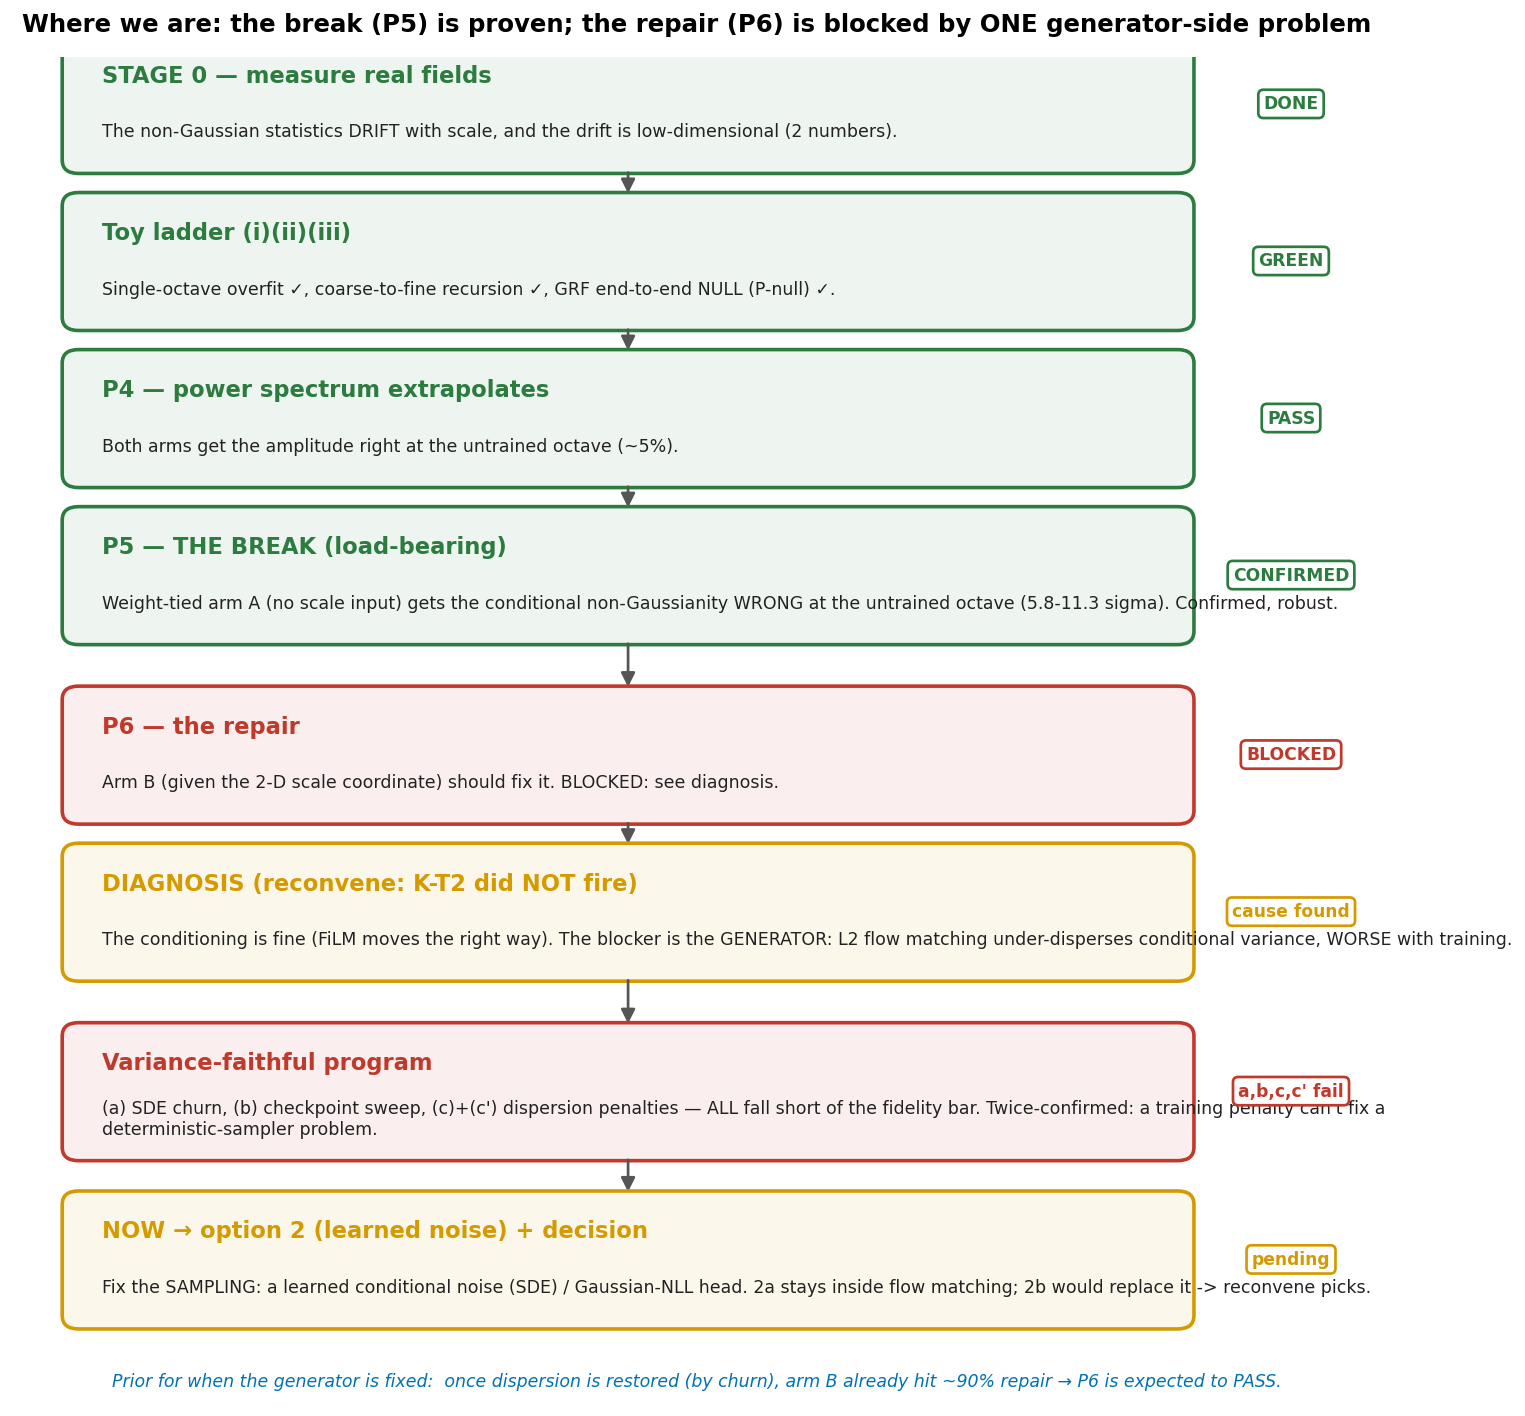
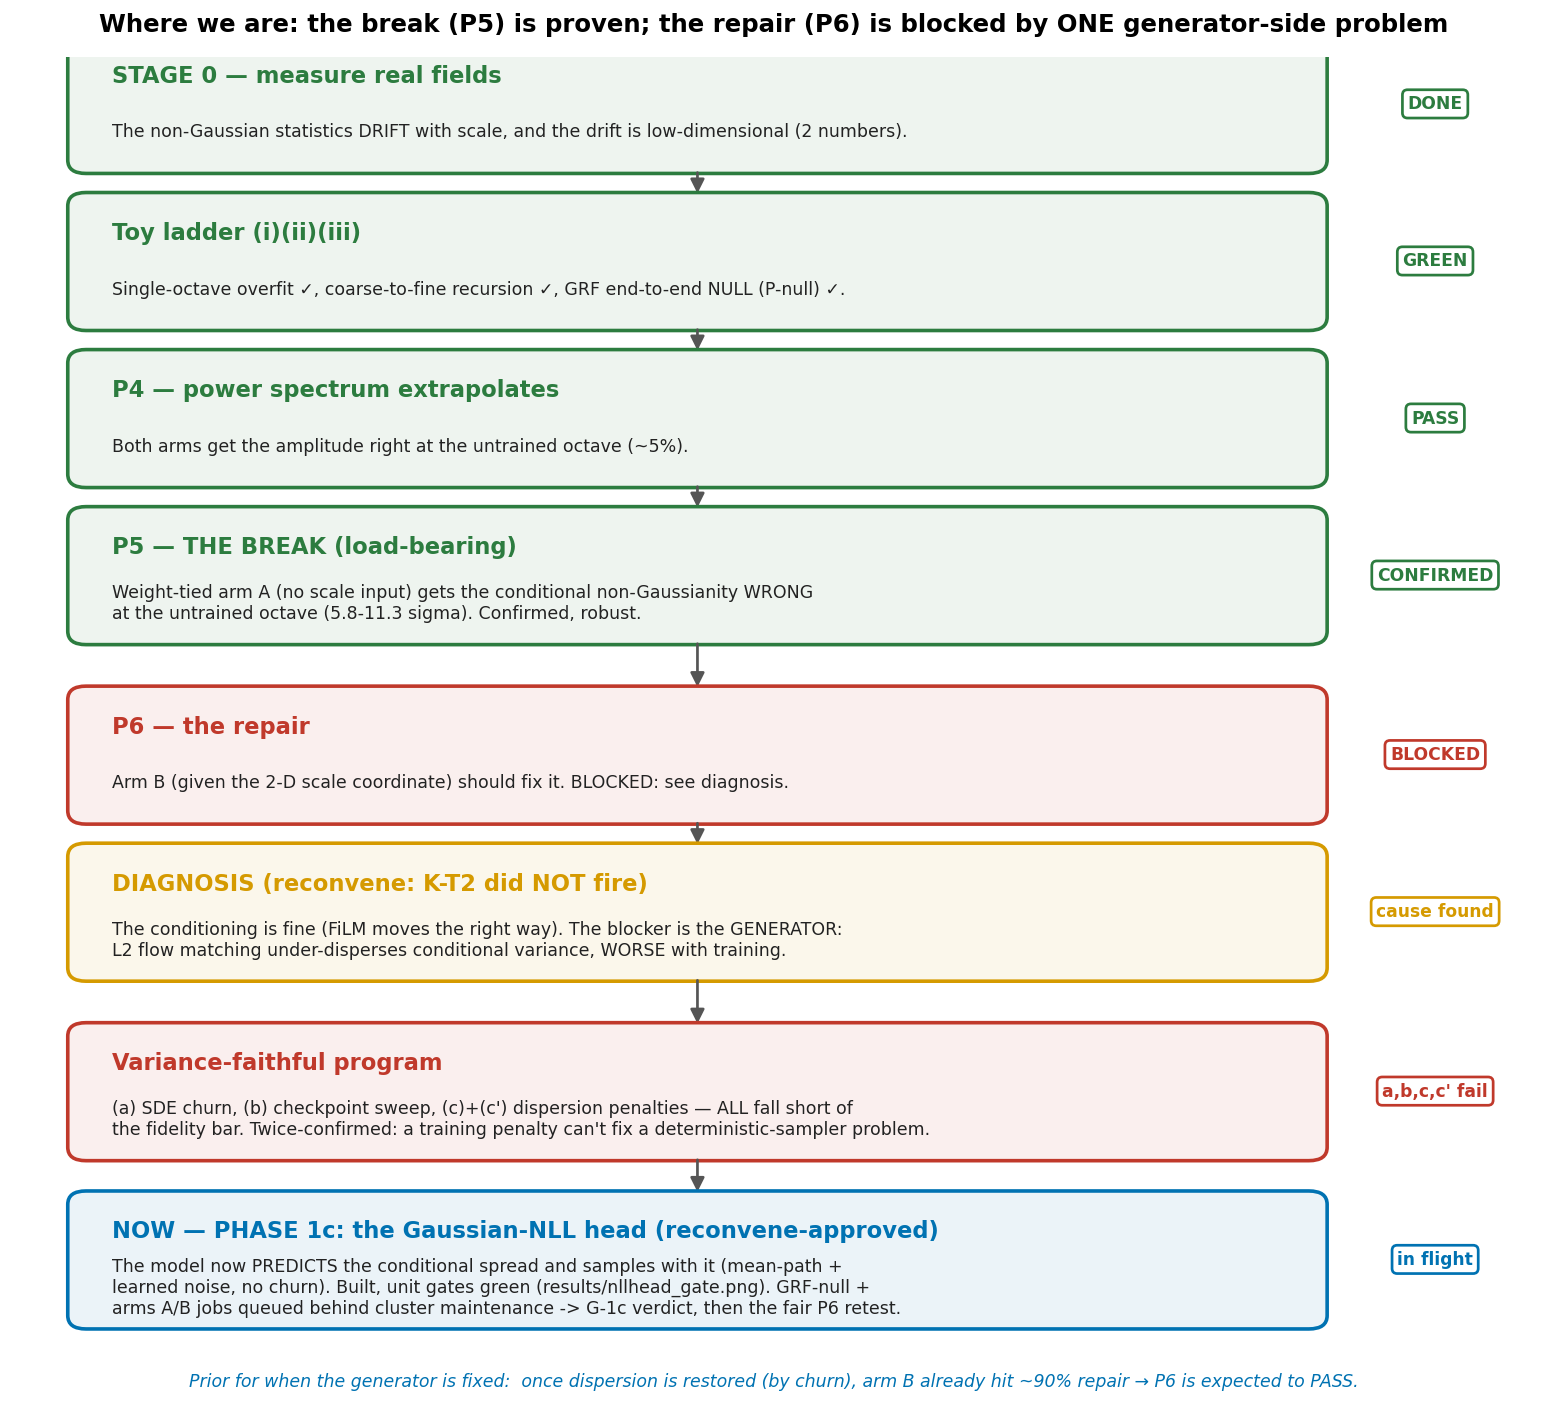
Progress figures: unit-scale NLL-head gate (old vs new sampler vs truth) + roadmap updated to phase 1c

diff --git a/scripts/plot_1c_head_gate.py b/scripts/plot_1c_head_gate.py
@@ -1,0 +1,134 @@
+#!/usr/bin/env python
+"""Explainer figure for phase-1c step 1: the Gaussian-NLL head fixes under-dispersion
+AT UNIT SCALE, where the truth is known exactly.
+
+Same toy law as tests_wfm/test_nll_head.py: detail = 0.5*tanh(c) + sigma(c)*z with
+sigma(c) = 0.85 + 0.12*c (linear, so no estimator-side curvature bias). One network is
+trained once with the phase-1c loss; then it is sampled TWO ways:
+  * the OLD deterministic ODE over its velocity channels (the collapsed baseline), and
+  * the NEW pre-registered sampler (deterministic mean-path + explicit learned e^g noise).
+Left panel: the sigma-head's learned spread vs the true one. Right panel: the spread of
+actual generated samples per coarse bin, old vs new sampler vs truth.
+"""
+import os
+try:
+    os.sched_setaffinity(0, set(range(4)))
+except Exception:
+    pass
+for _v in ("OMP_NUM_THREADS", "OPENBLAS_NUM_THREADS", "MKL_NUM_THREADS"):
+    os.environ.setdefault(_v, "1")
+import sys
+sys.path.insert(0, os.path.dirname(os.path.dirname(os.path.abspath(__file__))))
+
+import numpy as np
+import jax
+import jax.numpy as jnp
+import matplotlib
+matplotlib.use("Agg")
+import matplotlib.pyplot as plt
+
+from wfm.cfm import make_step, make_train_state, sample_nll
+from wfm.model import ConditionalUNet
+
+REPO = os.path.dirname(os.path.dirname(os.path.abspath(__file__)))
+K, BLUE, GREEN, ORANGE = "#000000", "#0072B2", "#009E73", "#E69F00"
+
+
+def smooth_coarse(key, n, hw=16):
+    x = jax.random.normal(key, (n, hw, hw, 1))
+    k = jnp.ones((5, 5, 1, 1)) / 25.0
+    for _ in range(3):
+        x = jax.lax.conv_general_dilated(x, k, (1, 1), "SAME",
+                                         dimension_numbers=("NHWC", "HWIO", "NHWC"))
+    return 1.5 * x / jnp.std(x)
+
+
+def true_mean(c):
+    return 0.5 * jnp.tanh(c)
+
+
+def true_sigma(c):
+    return jnp.maximum(0.85 + 0.12 * c, 0.2)
+
+
+def make_data(key, n=256):
+    kc, kz = jax.random.split(key)
+    coarse = smooth_coarse(kc, n)
+    z = jax.random.normal(kz, coarse.shape[:3] + (3,))
+    return true_mean(coarse) + true_sigma(coarse) * z, coarse
+
+
+detail, coarse = make_data(jax.random.PRNGKey(3))
+model = ConditionalUNet(out_channels=3, channels=(8, 16), bottleneck=32,
+                        embed_dim=32, cond_dim=0, variance_head=True)
+state = make_train_state(model, jax.random.PRNGKey(0), (16,) + detail.shape[1:],
+                         (16,) + coarse.shape[1:], 0, 3e-3, total_steps=2500, warmup=100)
+step = make_step(None, nll=True)
+rng = np.random.default_rng(0)
+for i in range(2500):
+    idx = rng.integers(0, detail.shape[0], 16)
+    state, loss = step(state, detail[idx], coarse[idx])
+print(f"trained: final loss {float(loss):.3f}")
+
+B = coarse.shape[0]
+zeros = jnp.zeros_like(detail)
+out0 = state.apply_fn({"params": state.params}, zeros, jnp.zeros((B,)), coarse, None)
+sig_learned = jnp.exp(out0[..., 3:])
+
+# OLD sampler: deterministic Euler ODE over the velocity channels of the SAME weights
+def sample_ode(key, nsteps=60):
+    x = jax.random.normal(key, detail.shape)
+    dt = 1.0 / nsteps
+    for j in range(nsteps):
+        t = jnp.full((B,), j * dt)
+        v = state.apply_fn({"params": state.params}, x, t, coarse, None)[..., :3]
+        x = x + v * dt
+    return x
+
+gen_old = sample_ode(jax.random.PRNGKey(11))
+gen_new = sample_nll(state.apply_fn, state.params, jax.random.PRNGKey(11), coarse, 3)
+
+edges = np.linspace(-1.2, 1.2, 9)
+mid = 0.5 * (edges[:-1] + edges[1:])
+cflat = np.asarray(jnp.broadcast_to(coarse, detail.shape)).ravel()
+bidx = np.digitize(cflat, edges) - 1
+bidx[(cflat < edges[0]) | (cflat >= edges[-1])] = -1
+
+def per_bin(arr, fn):
+    a = np.asarray(arr).ravel()
+    return np.array([fn(a[bidx == b]) for b in range(len(edges) - 1)])
+
+s_true_curve = np.asarray(true_sigma(jnp.asarray(mid)))
+s_head = per_bin(sig_learned, np.mean)
+s_data = per_bin(detail, np.std)
+s_old = per_bin(gen_old, np.std)
+s_new = per_bin(gen_new, np.std)
+
+fig, ax = plt.subplots(1, 2, figsize=(12.5, 4.9))
+ax[0].plot(mid, s_true_curve, "-", color=K, lw=2.5, label="TRUE spread σ(c)")
+ax[0].plot(mid, s_head, "--o", ms=4, color=ORANGE, label="what the σ-head learned  (e^g)")
+ax[0].set_xlabel("brightness of the coarse field at the pixel  (condition c)")
+ax[0].set_ylabel("spread (std) of the detail, given c")
+ax[0].set_title("The new head LEARNS the conditional spread\n"
+                "(this is the quantity the old generator kept collapsing)")
+ax[0].legend(fontsize=9)
+ax[0].grid(alpha=0.25)
+
+ax[1].plot(mid, s_data, "-", color=K, lw=2.5, label="real data")
+ax[1].plot(mid, s_old, "--s", ms=4, color=BLUE,
+           label="OLD sampler: deterministic ODE (collapsed)")
+ax[1].plot(mid, s_new, "--o", ms=4, color=GREEN,
+           label="NEW sampler: mean-path + learned noise")
+ax[1].set_xlabel("brightness of the coarse field at the pixel  (condition c)")
+ax[1].set_ylabel("spread (std) of GENERATED detail, given c")
+ax[1].set_title("Same trained network, two ways of sampling\n"
+                "(green = the pre-registered phase-1c sampler)")
+ax[1].legend(fontsize=9)
+ax[1].grid(alpha=0.25)
+
+fig.suptitle("Phase-1c gate, unit scale (truth known exactly): the Gaussian-NLL head restores the spread the ODE loses",
+             fontsize=12.5)
+fig.tight_layout(rect=[0, 0, 1, 0.92])
+out = os.path.join(REPO, "results", "nllhead_gate.png")
+fig.savefig(out, dpi=130, bbox_inches="tight")
+print("wrote", out)

diff --git a/scripts/plot_roadmap.py b/scripts/plot_roadmap.py
@@ -14,11 +14,11 @@ steps = [
     (10.4, "STAGE 0 — measure real fields", "The non-Gaussian statistics DRIFT with scale, and the drift is low-dimensional (2 numbers).", GREEN, "DONE"),
     (9.0, "Toy ladder (i)(ii)(iii)", "Single-octave overfit ✓, coarse-to-fine recursion ✓, GRF end-to-end NULL (P-null) ✓.", GREEN, "GREEN"),
     (7.6, "P4 — power spectrum extrapolates", "Both arms get the amplitude right at the untrained octave (~5%).", GREEN, "PASS"),
-    (6.2, "P5 — THE BREAK (load-bearing)", "Weight-tied arm A (no scale input) gets the conditional non-Gaussianity WRONG at the untrained octave (5.8-11.3 sigma). Confirmed, robust.", GREEN, "CONFIRMED"),
+    (6.2, "P5 — THE BREAK (load-bearing)", "Weight-tied arm A (no scale input) gets the conditional non-Gaussianity WRONG\nat the untrained octave (5.8-11.3 sigma). Confirmed, robust.", GREEN, "CONFIRMED"),
     (4.6, "P6 — the repair", "Arm B (given the 2-D scale coordinate) should fix it. BLOCKED: see diagnosis.", RED, "BLOCKED"),
-    (3.2, "DIAGNOSIS (reconvene: K-T2 did NOT fire)", "The conditioning is fine (FiLM moves the right way). The blocker is the GENERATOR: L2 flow matching under-disperses conditional variance, WORSE with training.", AMBER, "cause found"),
-    (1.6, "Variance-faithful program", "(a) SDE churn, (b) checkpoint sweep, (c)+(c') dispersion penalties — ALL fall short of the fidelity bar. Twice-confirmed: a training penalty can't fix a deterministic-sampler problem.", RED, "a,b,c,c' fail"),
-    (0.1, "NOW → option 2 (learned noise) + decision", "Fix the SAMPLING: a learned conditional noise (SDE) / Gaussian-NLL head. 2a stays inside flow matching; 2b would replace it -> reconvene picks.", AMBER, "pending"),
+    (3.2, "DIAGNOSIS (reconvene: K-T2 did NOT fire)", "The conditioning is fine (FiLM moves the right way). The blocker is the GENERATOR:\nL2 flow matching under-disperses conditional variance, WORSE with training.", AMBER, "cause found"),
+    (1.6, "Variance-faithful program", "(a) SDE churn, (b) checkpoint sweep, (c)+(c') dispersion penalties — ALL fall short of\nthe fidelity bar. Twice-confirmed: a training penalty can't fix a deterministic-sampler problem.", RED, "a,b,c,c' fail"),
+    (0.1, "NOW — PHASE 1c: the Gaussian-NLL head (reconvene-approved)", "The model now PREDICTS the conditional spread and samples with it (mean-path +\nlearned noise, no churn). Built, unit gates green (results/nllhead_gate.png). GRF-null +\narms A/B jobs queued behind cluster maintenance -> G-1c verdict, then the fair P6 retest.", BLUE, "in flight"),
 ]
 fig, ax = plt.subplots(figsize=(12, 11))
 ax.set_xlim(0, 10); ax.set_ylim(-0.6, 11.4); ax.axis("off")
